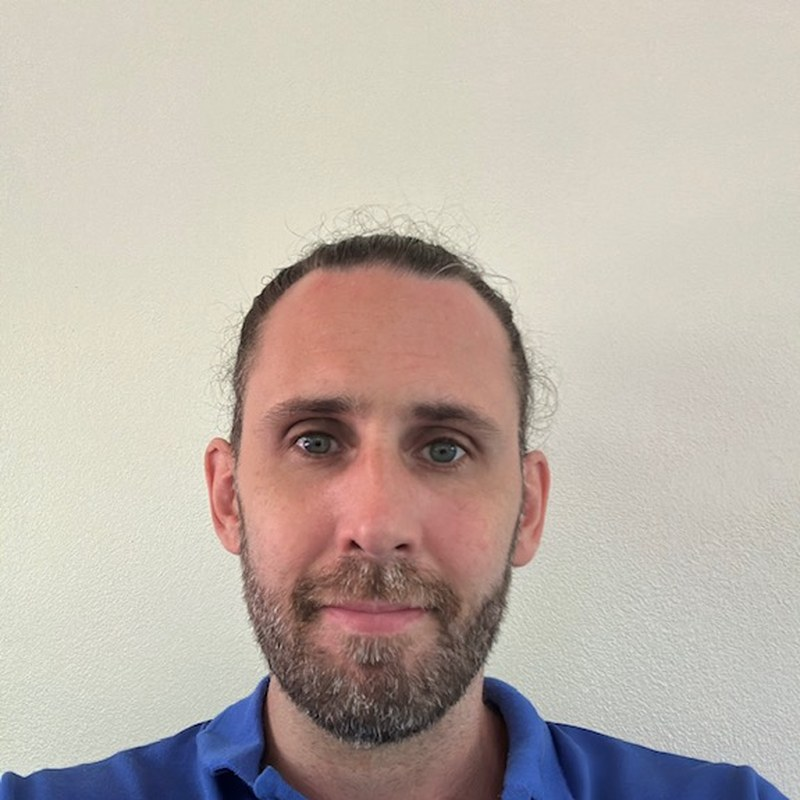
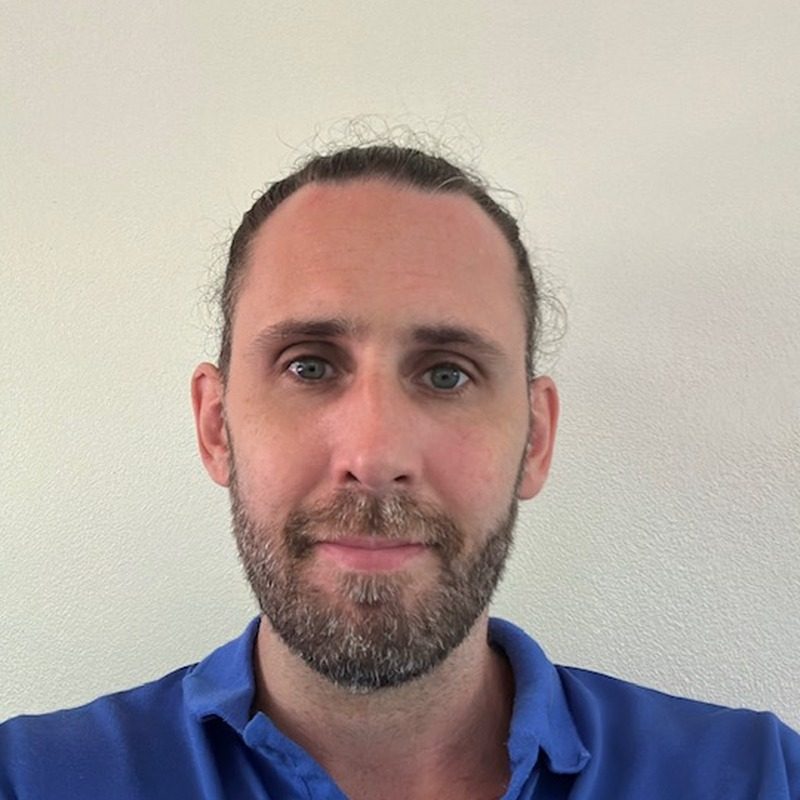
fix: jordan portrait recrop (face up + larger); cgm seamless rewrite — drop lingo/abbott branding, remove fsa/hsa retail reference, swap branded packaging shot for lifestyle, soften manufacturer disclosure to in-shipment doc

diff --git a/cgm.html b/cgm.html
@@ -3,8 +3,8 @@
 <head>
 <meta charset="UTF-8">
 <meta name="viewport" content="width=device-width, initial-scale=1.0">
-<title>Continuous Glucose Monitor by Abbott Lingo | Longevity Life Academy</title>
-<meta name="description" content="The Abbott Lingo continuous glucose monitor included with every Longevity Life Academy enrollment. 14-day biosensor, painless application, syncs with iOS and Android.">
+<title>Continuous Glucose Monitor | Longevity Life Academy</title>
+<meta name="description" content="The continuous glucose monitor included with every Longevity Life Academy enrollment. 14-day biosensor, painless application, syncs with iOS and Android.">
 <meta name="robots" content="index, follow">
 <link rel="preconnect" href="https://fonts.googleapis.com">
 <link rel="preconnect" href="https://fonts.gstatic.com" crossorigin>
@@ -30,7 +30,7 @@ a { color: inherit; text-decoration: none; }
 .cgm-sub { color: rgba(255,255,255,0.78); font-size: 18px; line-height: 1.65; max-width: 720px; margin: 0 auto 24px; }
 
 .cgm-gallery { padding: 24px 0 64px; }
-.cgm-gallery-grid { display: grid; grid-template-columns: repeat(3, 1fr); gap: 18px; }
+.cgm-gallery-grid { display: grid; grid-template-columns: repeat(2, 1fr); gap: 18px; max-width: 760px; margin: 0 auto; }
 .cgm-gallery-img { aspect-ratio: 1 / 1; border-radius: 20px; overflow: hidden; border: 1px solid rgba(255,255,255,0.08); background: rgba(255,255,255,0.03); }
 .cgm-gallery-img img { width: 100%; height: 100%; object-fit: cover; display: block; }
 @media (max-width: 720px) { .cgm-gallery-grid { grid-template-columns: 1fr; } }
@@ -67,21 +67,18 @@ footer { padding: 32px 0; border-top: 1px solid rgba(255,255,255,0.06); color: r
 <section class="cgm-hero">
   <div class="container">
     <span class="cgm-eyebrow">Included with enrollment</span>
-    <h1 class="cgm-h1">Lingo Continuous Glucose Monitor</h1>
-    <p class="cgm-by">by <strong>Abbott</strong></p>
-    <p class="cgm-sub">A 14-day biosensor that reads your glucose in real time, so you can finally see how your body responds to food, sleep, training, and stress. Included at no extra cost with every Longevity Life Academy enrollment.</p>
+    <h1 class="cgm-h1">Your Continuous Glucose Monitor</h1>
+    <p class="cgm-sub">A 14-day biosensor that reads your glucose in real time, so you can finally see how your body responds to food, sleep, training, and stress. Included with every Longevity Life Academy enrollment.</p>
   </div>
 </section>
 
 <section class="cgm-gallery">
   <div class="container">
     <div class="cgm-gallery-grid">
-      <div class="cgm-gallery-img"><img src="assets/cgm/lingo-1.jpg" alt="Abbott Lingo CGM biosensor" loading="lazy"></div>
-      <div class="cgm-gallery-img"><img src="assets/cgm/lingo-2.jpg" alt="Lingo app interface" loading="lazy"></div>
-      <div class="cgm-gallery-img"><img src="assets/cgm/lingo-3.jpg" alt="Lingo CGM worn on arm" loading="lazy"></div>
-      <div class="cgm-gallery-img"><img src="assets/cgm/lingo-4.jpg" alt="Lingo CGM packaging" loading="lazy"></div>
-      <div class="cgm-gallery-img"><img src="assets/cgm/lingo-5.jpg" alt="Lingo CGM applicator" loading="lazy"></div>
-      <div class="cgm-gallery-img"><img src="assets/cgm/lingo-6.jpg" alt="Lingo CGM lifestyle" loading="lazy"></div>
+      <div class="cgm-gallery-img"><img src="assets/cgm/lingo-1.jpg" alt="Continuous glucose monitor biosensor and app" loading="lazy"></div>
+      <div class="cgm-gallery-img"><img src="assets/cgm/lingo-3.jpg" alt="Continuous glucose monitor worn on arm" loading="lazy"></div>
+      <div class="cgm-gallery-img"><img src="assets/cgm/lingo-5.jpg" alt="Continuous glucose monitor companion app" loading="lazy"></div>
+      <div class="cgm-gallery-img"><img src="assets/cgm/lingo-6.jpg" alt="Continuous glucose monitor lifestyle" loading="lazy"></div>
     </div>
   </div>
 </section>
@@ -90,13 +87,13 @@ footer { padding: 32px 0; border-top: 1px solid rgba(255,255,255,0.06); color: r
   <div class="container">
     <div class="cgm-section">
       <h2>Specifications</h2>
-      <p>Lingo Continuous Glucose Monitor (CGM). Made by Abbott.</p>
+      <p>Medical-grade continuous glucose monitor (CGM) provided as part of your course enrollment.</p>
       <ul>
         <li>Dimensions: 4.7" &times; 2.25" &times; 3.5"</li>
         <li>Weight: 0.21 lbs</li>
         <li>Sensor wear time: 14 days</li>
         <li>Water-resistant for showering, swimming, and daily activity</li>
-        <li>Compatible with iOS and Android via the Lingo app</li>
+        <li>Compatible with iOS and Android via a free companion app</li>
       </ul>
     </div>
   </div>
@@ -115,7 +112,7 @@ footer { padding: 32px 0; border-top: 1px solid rgba(255,255,255,0.06); color: r
         <div class="cgm-step">
           <div class="cgm-step-num">STEP 02</div>
           <h3>Pair</h3>
-          <p>Open the Lingo app on your phone and pair the sensor in seconds.</p>
+          <p>Open the companion app on your phone and pair the sensor in seconds.</p>
         </div>
         <div class="cgm-step">
           <div class="cgm-step-num">STEP 03</div>
@@ -131,8 +128,8 @@ footer { padding: 32px 0; border-top: 1px solid rgba(255,255,255,0.06); color: r
   <div class="container">
     <div class="cgm-section">
       <h2>Terms &amp; Conditions</h2>
-      <p>Included with course enrollment. One unit per student. Available to US residents only, shipping restricted to United States addresses.</p>
-      <p>Manufactured by Abbott Diabetes Care Inc., 1360 South Loop Road, Alameda, CA 94502. Not for use by people on insulin. Not for medical diagnosis. 18+ only. Free replacement if biosensor fails before 14 days.</p>
+      <p>Included with course enrollment. One unit per student. Available to U.S. residents only, shipping restricted to United States addresses. Students 18+ only.</p>
+      <p>Not for use by people on insulin. Not intended for medical diagnosis. Free replacement if the biosensor fails before 14 days. Device is provided by a U.S. medical-device manufacturer under FDA clearance; full manufacturer disclosure is included with the shipment.</p>
     </div>
     <div class="cgm-back-wrap">
       <a href="index.html" class="cgm-back">&larr; Back to home</a>

diff --git a/index.html b/index.html
@@ -8529,19 +8529,18 @@ height="0" width="0" style="display:none;visibility:hidden"></iframe></noscript>
     <div class="cgm-fold-header reveal">
       <span class="cgm-fold-eyebrow">Included in Your Course</span>
       <h2 class="cgm-fold-title">Continuous Glucose Monitoring, Included in Your Course</h2>
-      <p class="cgm-fold-sub">Every student receives one Abbott Lingo continuous glucose monitor, included at no extra cost. Track your body's real-time response to food, sleep, and movement.</p>
+      <p class="cgm-fold-sub">Every student receives a medical-grade continuous glucose monitor as part of the course. Track your body's real-time response to food, sleep, and movement.</p>
     </div>
     <div class="cgm-fold-images reveal">
-      <div class="cgm-fold-img"><img src="assets/cgm/lingo-1.jpg" alt="Abbott Lingo CGM biosensor" loading="lazy"></div>
-      <div class="cgm-fold-img"><img src="assets/cgm/lingo-2.jpg" alt="Lingo CGM app interface" loading="lazy"></div>
-      <div class="cgm-fold-img"><img src="assets/cgm/lingo-3.jpg" alt="Lingo CGM worn on arm" loading="lazy"></div>
+      <div class="cgm-fold-img"><img src="assets/cgm/lingo-1.jpg" alt="Continuous glucose monitor biosensor" loading="lazy"></div>
+      <div class="cgm-fold-img"><img src="assets/cgm/lingo-6.jpg" alt="Continuous glucose monitor in use" loading="lazy"></div>
+      <div class="cgm-fold-img"><img src="assets/cgm/lingo-3.jpg" alt="Continuous glucose monitor worn on arm" loading="lazy"></div>
     </div>
     <div class="cgm-fold-bullets reveal">
       <div class="cgm-fold-bullet"><svg width="18" height="18" viewBox="0 0 24 24" fill="none" stroke="currentColor" stroke-width="2.6" stroke-linecap="round" stroke-linejoin="round"><path d="M5 12l5 5L20 7"/></svg><span>14-day biosensor, water-resistant, painless application</span></div>
-      <div class="cgm-fold-bullet"><svg width="18" height="18" viewBox="0 0 24 24" fill="none" stroke="currentColor" stroke-width="2.6" stroke-linecap="round" stroke-linejoin="round"><path d="M5 12l5 5L20 7"/></svg><span>Prescription-free, FSA/HSA eligible (US only)</span></div>
-      <div class="cgm-fold-bullet"><svg width="18" height="18" viewBox="0 0 24 24" fill="none" stroke="currentColor" stroke-width="2.6" stroke-linecap="round" stroke-linejoin="round"><path d="M5 12l5 5L20 7"/></svg><span>Syncs with iOS and Android (Apple Health / Health Connect)</span></div>
-      <div class="cgm-fold-bullet"><svg width="18" height="18" viewBox="0 0 24 24" fill="none" stroke="currentColor" stroke-width="2.6" stroke-linecap="round" stroke-linejoin="round"><path d="M5 12l5 5L20 7"/></svg><span>18+, not for insulin users, not for medical diagnosis</span></div>
-      <div class="cgm-fold-bullet"><svg width="18" height="18" viewBox="0 0 24 24" fill="none" stroke="currentColor" stroke-width="2.6" stroke-linecap="round" stroke-linejoin="round"><path d="M5 12l5 5L20 7"/></svg><span>One unit per student, ships within the United States only</span></div>
+      <div class="cgm-fold-bullet"><svg width="18" height="18" viewBox="0 0 24 24" fill="none" stroke="currentColor" stroke-width="2.6" stroke-linecap="round" stroke-linejoin="round"><path d="M5 12l5 5L20 7"/></svg><span>Syncs with iOS and Android, integrates with Apple Health and Health Connect</span></div>
+      <div class="cgm-fold-bullet"><svg width="18" height="18" viewBox="0 0 24 24" fill="none" stroke="currentColor" stroke-width="2.6" stroke-linecap="round" stroke-linejoin="round"><path d="M5 12l5 5L20 7"/></svg><span>For students 18+. Not for insulin users. Not for medical diagnosis.</span></div>
+      <div class="cgm-fold-bullet"><svg width="18" height="18" viewBox="0 0 24 24" fill="none" stroke="currentColor" stroke-width="2.6" stroke-linecap="round" stroke-linejoin="round"><path d="M5 12l5 5L20 7"/></svg><span>One unit per student, shipped to U.S. addresses</span></div>
     </div>
     <div class="cgm-fold-cta-wrap reveal">
       <a href="cgm.html" class="cgm-fold-cta">Learn more about the device <svg width="16" height="16" viewBox="0 0 24 24" fill="none" stroke="currentColor" stroke-width="2.5" stroke-linecap="round"><path d="M5 12h14M12 5l7 7-7 7"/></svg></a>
